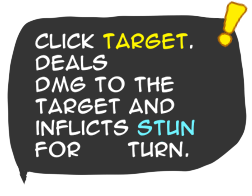
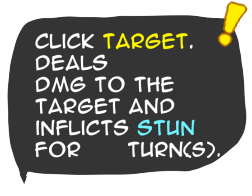
improve taji skill2 tooltip

Changed region(s): [[0.7222, 0.7041, 0.8889, 0.8265]]

diff --git a/src/ui/ui_system.cpp b/src/ui/ui_system.cpp
@@ -463,7 +463,7 @@ void UISystem::renderToolTipNumbers(const SkillType& skillType)
 			dmg *= strengthMultiplier;
 			float duration = skillLevelMultiplier == 2 ? 2.f : 1.f; // 2 turns at max level, else 1 turn
 			createText(floatToString(dmg), vec2(452.f, 654.f), NUMSCALE - 0.05f, RED).emplace<ToolTipText>();
-			createText(floatToString(duration), vec2(439.f, 741.f), NUMSCALE, CYAN).emplace<ToolTipText>();
+			createText(floatToString(duration), vec2(438.f, 741.f), NUMSCALE, CYAN).emplace<ToolTipText>();
 		}
 		else if (skillType == SkillType::SKILL3)
 		{
